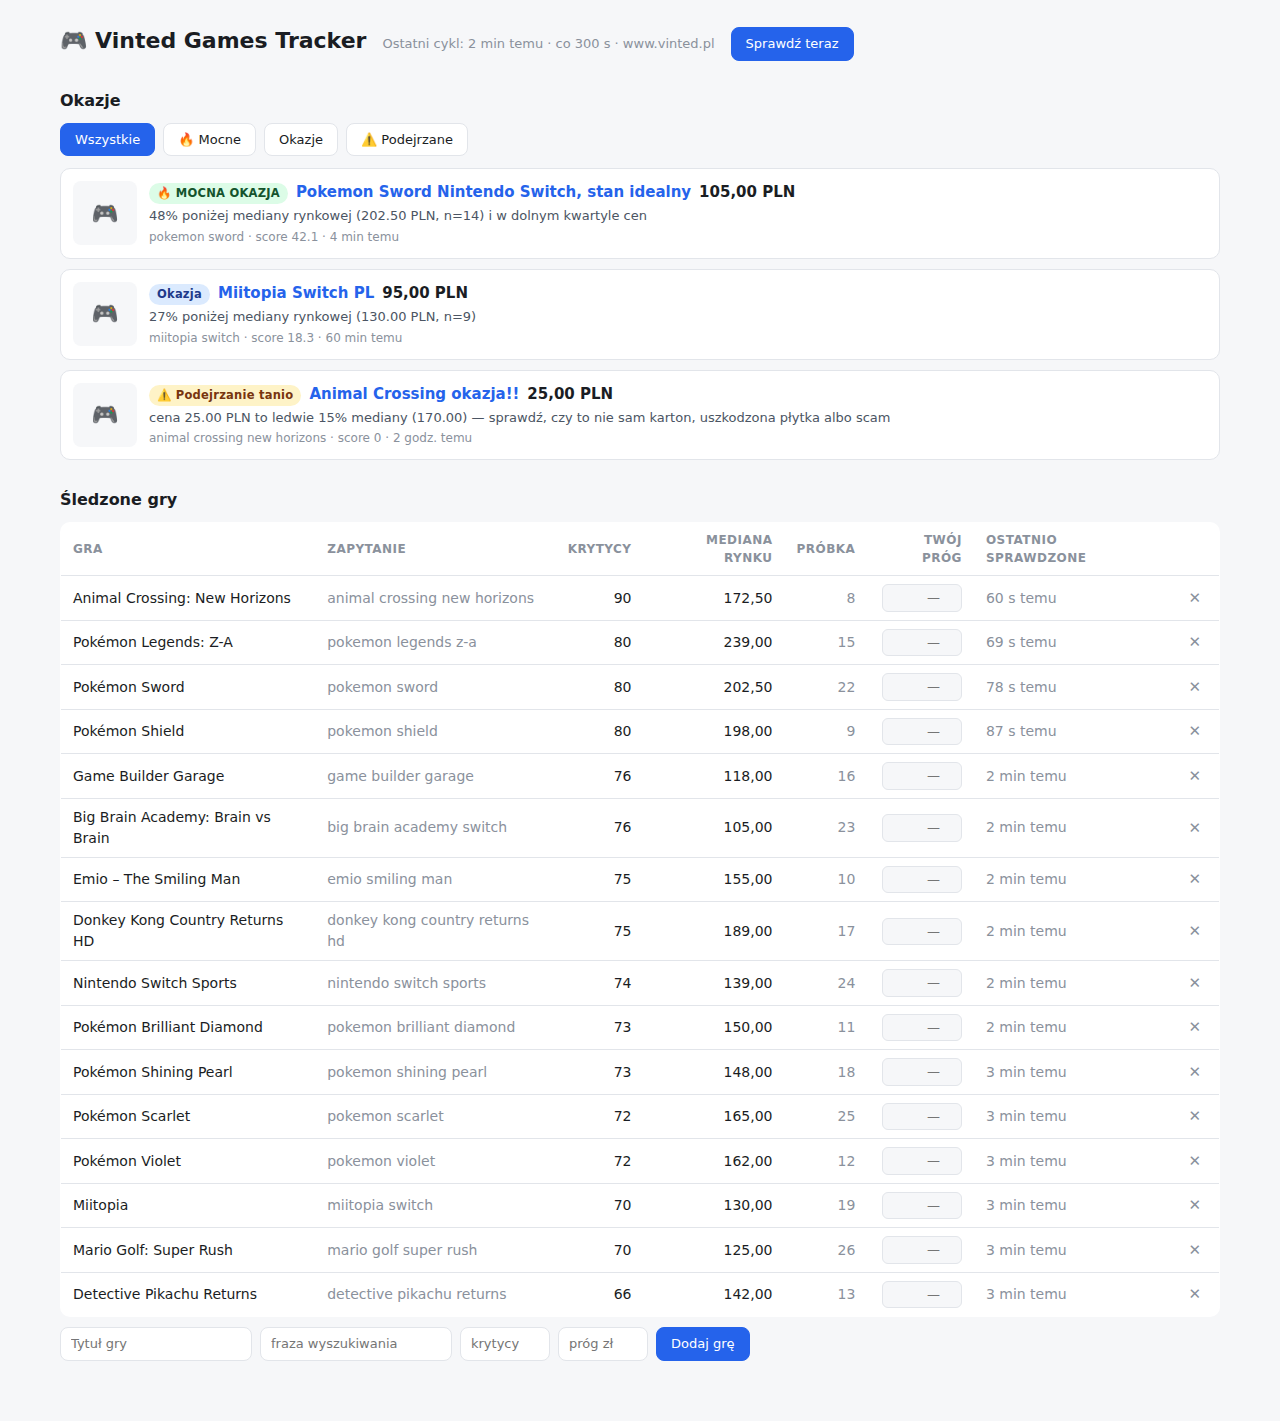
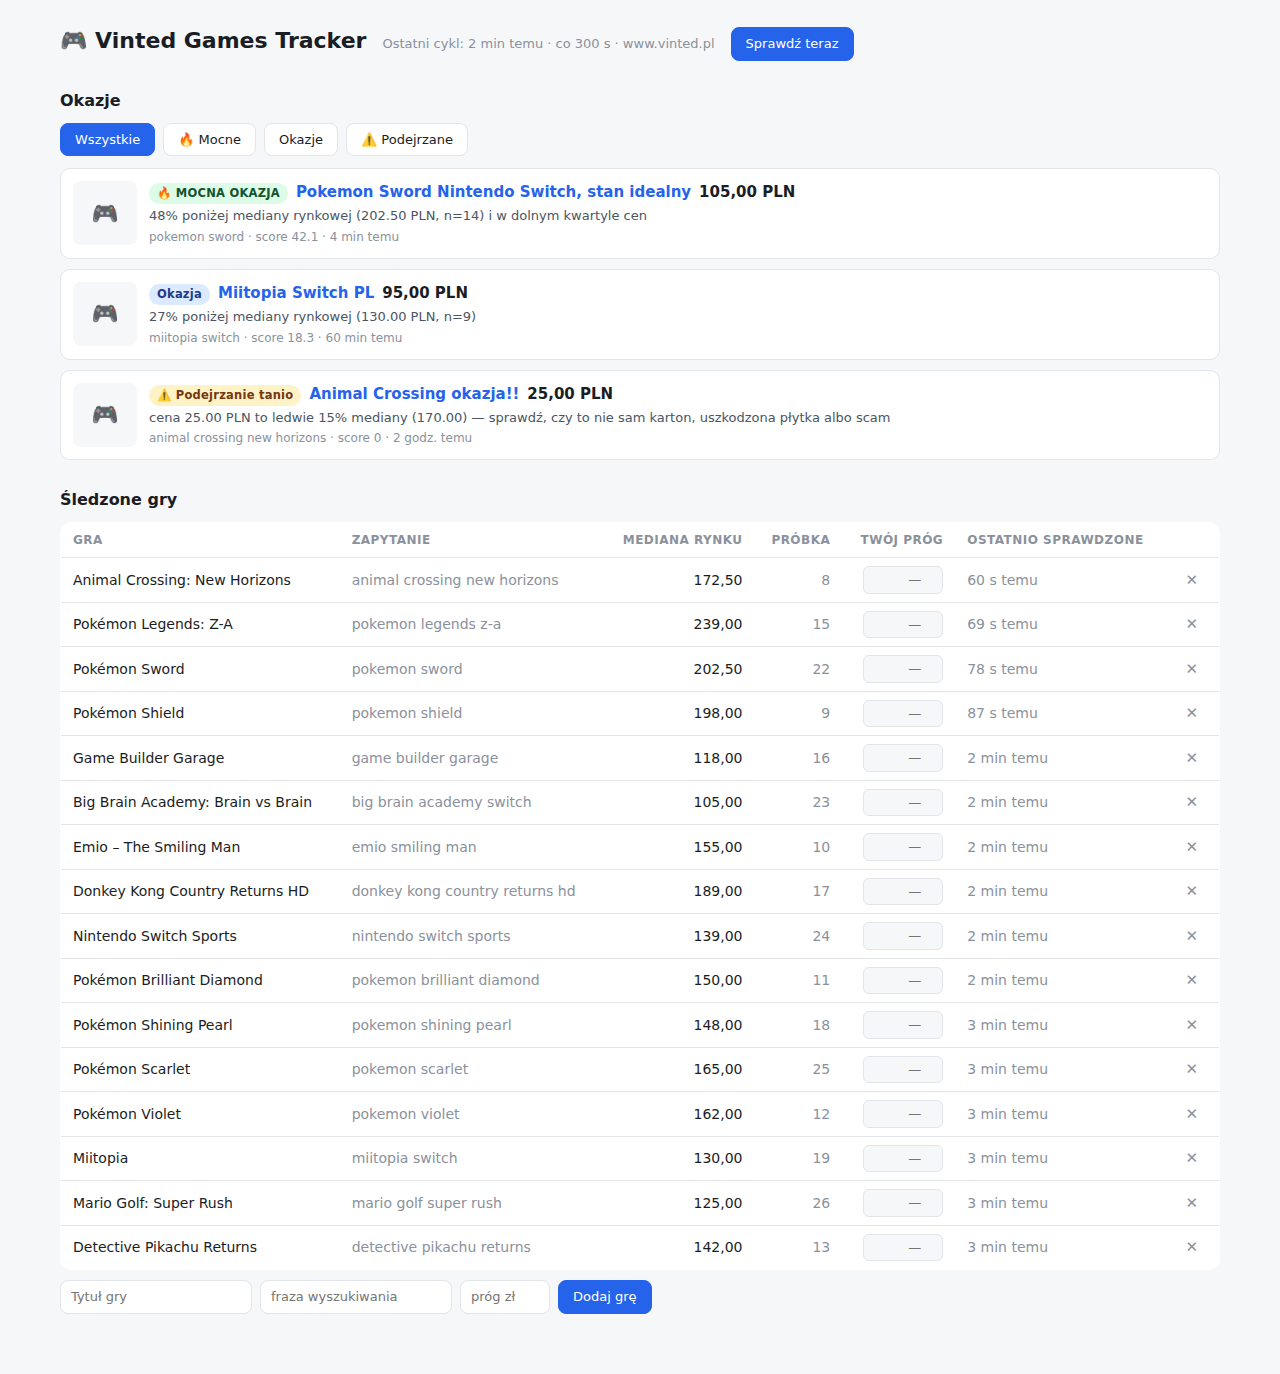
Remove critic scores from watchlist and deal scoring
Deal score is now the plain discount percentage against the best reference
(market median or manual cap). Drops the criticScore field from the
watchlist, API, dashboard table and add form, and updates tests and docs.

Claude-Session: https://claude.ai/code/session_01Vh4Yj95ELqsBY5c7Xy8Qv2

diff --git a/vinted-tracker-csharp/src/VintedTracker/wwwroot/index.html b/vinted-tracker-csharp/src/VintedTracker/wwwroot/index.html
@@ -116,7 +116,7 @@
   <div class="table-scroll">
   <table>
     <thead><tr>
-      <th>Gra</th><th>Zapytanie</th><th class="num">Krytycy</th>
+      <th>Gra</th><th>Zapytanie</th>
       <th class="num">Mediana rynku</th><th class="num">Próbka</th>
       <th class="num">Twój próg</th><th>Ostatnio sprawdzone</th><th></th>
     </tr></thead>
@@ -126,7 +126,6 @@
   <form class="addform" id="addForm">
     <input name="title" placeholder="Tytuł gry" required>
     <input name="query" placeholder="fraza wyszukiwania" required>
-    <input name="criticScore" type="number" min="0" max="100" placeholder="krytycy" style="width:90px">
     <input name="maxPrice" type="number" min="0" step="0.01" placeholder="próg zł" style="width:90px">
     <button class="primary">Dodaj grę</button>
   </form>
@@ -183,7 +182,6 @@ function renderGames(games) {
     <tr>
       <td>${esc(g.title)}</td>
       <td class="muted">${esc(g.query)}${g.lastError ? `<div class="error">⚠ ${esc(g.lastError)}</div>` : ''}</td>
-      <td class="num">${g.criticScore ?? '<span class="muted">—</span>'}</td>
       <td class="num">${g.median != null ? fmt.format(g.median) : '<span class="muted">za mało danych</span>'}</td>
       <td class="num muted">${g.sampleSize}</td>
       <td class="num"><input class="price" type="number" min="0" step="0.01"
@@ -227,7 +225,7 @@ document.getElementById('games').addEventListener('change', async e => {
   const g = lastData.games.find(x => x.query === input.dataset.q); if (!g) return;
   await fetch('/api/games', {
     method: 'POST', headers: { 'Content-Type': 'application/json' },
-    body: JSON.stringify({ title: g.title, query: g.query, criticScore: g.criticScore,
+    body: JSON.stringify({ title: g.title, query: g.query,
       maxPrice: input.value === '' ? null : Number(input.value) }),
   });
   refresh();
@@ -247,7 +245,6 @@ document.getElementById('addForm').addEventListener('submit', async e => {
     method: 'POST', headers: { 'Content-Type': 'application/json' },
     body: JSON.stringify({
       title: f.get('title'), query: f.get('query'),
-      criticScore: f.get('criticScore') ? Number(f.get('criticScore')) : null,
       maxPrice: f.get('maxPrice') ? Number(f.get('maxPrice')) : null,
     }),
   });

diff --git a/vinted-tracker-csharp/tests/VintedTracker.Tests/DealEvaluatorTests.cs b/vinted-tracker-csharp/tests/VintedTracker.Tests/DealEvaluatorTests.cs
@@ -16,7 +16,7 @@ public class DealEvaluatorTests
     [Fact]
     public void FarBelowMedianAndInBottomQuartileIsStrong()
     {
-        var v = DealEvaluator.Evaluate(MakeListing(110), maxPrice: null, criticScore: 80, marketPrices: Market);
+        var v = DealEvaluator.Evaluate(MakeListing(110), maxPrice: null, marketPrices: Market);
         Assert.Equal(DealTier.Strong, v.Tier);
         Assert.Contains("mediany", v.Reasons[0]);
     }
@@ -24,21 +24,21 @@ public class DealEvaluatorTests
     [Fact]
     public void ModeratelyBelowMedianIsOrdinaryDeal()
     {
-        var v = DealEvaluator.Evaluate(MakeListing(145), maxPrice: null, criticScore: 80, marketPrices: Market);
+        var v = DealEvaluator.Evaluate(MakeListing(145), maxPrice: null, marketPrices: Market);
         Assert.Equal(DealTier.Deal, v.Tier);
     }
 
     [Fact]
     public void NearMedianIsNotDeal()
     {
-        var v = DealEvaluator.Evaluate(MakeListing(190), maxPrice: null, criticScore: 80, marketPrices: Market);
+        var v = DealEvaluator.Evaluate(MakeListing(190), maxPrice: null, marketPrices: Market);
         Assert.Equal(DealTier.None, v.Tier);
     }
 
     [Fact]
     public void AbsurdlyCheapIsSuspiciousNotStrong()
     {
-        var v = DealEvaluator.Evaluate(MakeListing(40), maxPrice: null, criticScore: 80, marketPrices: Market);
+        var v = DealEvaluator.Evaluate(MakeListing(40), maxPrice: null, marketPrices: Market);
         Assert.Equal(DealTier.Suspicious, v.Tier);
         Assert.False(v.IsDeal);
     }
@@ -46,21 +46,21 @@ public class DealEvaluatorTests
     [Fact]
     public void WellUnderManualCapIsStrong()
     {
-        var v = DealEvaluator.Evaluate(MakeListing(100), maxPrice: 130, criticScore: 80, marketPrices: []);
+        var v = DealEvaluator.Evaluate(MakeListing(100), maxPrice: 130, marketPrices: []);
         Assert.Equal(DealTier.Strong, v.Tier);
     }
 
     [Fact]
     public void JustUnderManualCapIsOrdinaryDeal()
     {
-        var v = DealEvaluator.Evaluate(MakeListing(125), maxPrice: 130, criticScore: 80, marketPrices: []);
+        var v = DealEvaluator.Evaluate(MakeListing(125), maxPrice: 130, marketPrices: []);
         Assert.Equal(DealTier.Deal, v.Tier);
     }
 
     [Fact]
     public void SmallSampleMedianIgnored()
     {
-        var v = DealEvaluator.Evaluate(MakeListing(90), maxPrice: null, criticScore: 80, marketPrices: [200, 210]);
+        var v = DealEvaluator.Evaluate(MakeListing(90), maxPrice: null, marketPrices: [200, 210]);
         Assert.Equal(DealTier.None, v.Tier);
     }
 
@@ -69,7 +69,7 @@ public class DealEvaluatorTests
     {
         var v = DealEvaluator.Evaluate(
             MakeListing(15, "Etui na Nintendo Switch pokemon sword"),
-            maxPrice: 130, criticScore: 80, marketPrices: Market);
+            maxPrice: 130, marketPrices: Market);
         Assert.Equal(DealTier.None, v.Tier);
         Assert.Contains("akcesorium", v.Reasons[0]);
     }
@@ -79,16 +79,16 @@ public class DealEvaluatorTests
     {
         var v = DealEvaluator.Evaluate(
             MakeListing(20, "Pokemon Sword - samo pudełko po grze"),
-            maxPrice: 130, criticScore: 80, marketPrices: Market);
+            maxPrice: 130, marketPrices: Market);
         Assert.Equal(DealTier.None, v.Tier);
     }
 
     [Fact]
-    public void HigherCriticScoreRanksHigherAtSameDiscount()
+    public void ScoreEqualsDiscountPercent()
     {
-        var good = DealEvaluator.Evaluate(MakeListing(110), maxPrice: null, criticScore: 90, marketPrices: Market);
-        var meh = DealEvaluator.Evaluate(MakeListing(110), maxPrice: null, criticScore: 66, marketPrices: Market);
-        Assert.True(good.Score > meh.Score);
+        // 110 vs przycięta mediana 202.50 → rabat ~45.7%
+        var v = DealEvaluator.Evaluate(MakeListing(110), maxPrice: null, marketPrices: Market);
+        Assert.InRange(v.Score, 45, 47);
     }
 
     [Fact]

diff --git a/vinted-tracker-csharp/src/VintedTracker/DealEvaluator.cs b/vinted-tracker-csharp/src/VintedTracker/DealEvaluator.cs
@@ -35,10 +35,9 @@ public sealed record DealVerdict(DealTier Tier, double Score, IReadOnlyList<stri
 /// <item><b>Bezpiecznik too-good-to-be-true</b> — cena ≤ 30% mediany to
 /// zwykle scam, uszkodzona płytka albo „sam box”; oznaczamy jako
 /// podejrzaną zamiast świętować.</item>
-/// <item><b>Priorytet ważony jakością gry</b> — wynik (Score) mnoży rabat
-/// przez wagę z oceny krytyków, więc 35% zniżki na grę 90/100 wygrywa
-/// z 40% na grze 66/100 przy sortowaniu alertów.</item>
 /// </list>
+/// Wynik (Score) to procent rabatu względem najlepszego odniesienia —
+/// służy do sortowania alertów.
 /// </summary>
 public static class DealEvaluator
 {
@@ -82,7 +81,6 @@ public static class DealEvaluator
     public static DealVerdict Evaluate(
         Listing listing,
         decimal? maxPrice,
-        int? criticScore,
         IReadOnlyList<decimal> marketPrices)
     {
         var price = listing.Price;
@@ -146,10 +144,7 @@ public static class DealEvaluator
         if (tier == DealTier.None)
             return new DealVerdict(DealTier.None, 0, reasons);
 
-        // Priorytet: rabat ważony jakością gry (ocena krytyków 0-100).
-        // Bez oceny przyjmujemy neutralne 75.
-        var qualityWeight = 0.5 + (criticScore ?? 75) / 200.0;
-        var score = Math.Round((double)bestDiscount * 100 * qualityWeight, 1);
+        var score = Math.Round((double)bestDiscount * 100, 1);
         return new DealVerdict(tier, score, reasons);
     }
 

diff --git a/vinted-tracker-csharp/src/VintedTracker/Watchlist.cs b/vinted-tracker-csharp/src/VintedTracker/Watchlist.cs
@@ -7,7 +7,6 @@ public sealed class GameWatch
 {
     [JsonPropertyName("title")] public required string Title { get; set; }
     [JsonPropertyName("query")] public required string Query { get; set; }
-    [JsonPropertyName("criticScore")] public int? CriticScore { get; set; }
     [JsonPropertyName("maxPrice")] public decimal? MaxPrice { get; set; }
     [JsonPropertyName("catalogIds")] public List<int>? CatalogIds { get; set; }
 }

diff --git a/vinted-tracker-csharp/src/VintedTracker/TrackerEngine.cs b/vinted-tracker-csharp/src/VintedTracker/TrackerEngine.cs
@@ -87,7 +87,7 @@ public sealed class TrackerEngine(
         {
             if (store.IsKnown(listing.Id))
                 continue;
-            var verdict = DealEvaluator.Evaluate(listing, game.MaxPrice, game.CriticScore, market);
+            var verdict = DealEvaluator.Evaluate(listing, game.MaxPrice, market);
             store.Remember(listing.Id, new SeenItem
             {
                 Query = game.Query,

diff --git a/vinted-tracker-csharp/src/VintedTracker/Program.cs b/vinted-tracker-csharp/src/VintedTracker/Program.cs
@@ -74,7 +74,6 @@ public static class Program
                 {
                     g.Title,
                     g.Query,
-                    g.CriticScore,
                     g.MaxPrice,
                     Median = stats?.Median,
                     SampleSize = stats?.SampleSize ?? 0,

diff --git a/vinted-tracker-csharp/README.md b/vinted-tracker-csharp/README.md
@@ -39,9 +39,9 @@ Pojedynczy sygnał cenowy kłamie, więc ocena jest wielowarstwowa:
 5. **Bezpiecznik too-good-to-be-true.** Cena ≤ **30% mediany** to częściej
    scam, uszkodzona płytka albo „samo pudełko” niż okazja — taka oferta
    dostaje status *Podejrzanie tanio* zamiast alertu.
-6. **Priorytet ważony jakością gry.** Wynik (score) = rabat × waga z oceny
-   krytyków (`0.5 + krytycy/200`), więc 35% zniżki na grę 90/100 sortuje się
-   wyżej niż 40% na grze 66/100.
+
+Wynik (score) okazji to procent rabatu względem najlepszego odniesienia —
+służy do sortowania alertów.
 
 Progi (`StrongRatio`, `DealRatio`, `SuspiciousRatio`, …) są stałymi
 w `DealEvaluator` — łatwo je przestroić.
@@ -76,13 +76,13 @@ export TELEGRAM_CHAT_ID="123456789"
 
 - **Okazje** — kanał z kartami (🔥 mocna / okazja / ⚠ podejrzanie tanio),
   filtrowanie po typie, link do oferty, powody klasyfikacji, score.
-- **Śledzone gry** — mediana rynkowa i wielkość próbki na żywo, ocena
-  krytyków, edycja progu `maxPrice` wprost w tabeli, dodawanie i usuwanie
-  gier, błędy pobierania per gra.
+- **Śledzone gry** — mediana rynkowa i wielkość próbki na żywo, edycja
+  progu `maxPrice` wprost w tabeli, dodawanie i usuwanie gier, błędy
+  pobierania per gra.
 - **Sprawdź teraz** — ręczne wywołanie cyklu poza harmonogramem.
 
 Watchlista mieszka w `games.json` (edytowalna też ręcznie); w repo jest
-wypełniona grami Nintendo Switch z ocenami krytyków.
+wypełniona grami Nintendo Switch.
 
 ## Testy
 
